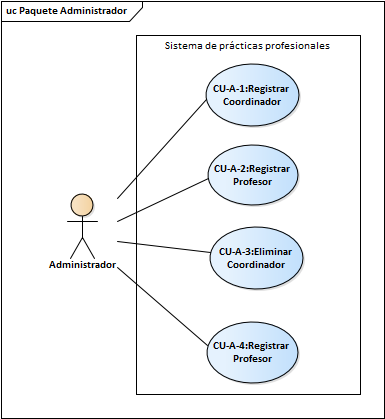
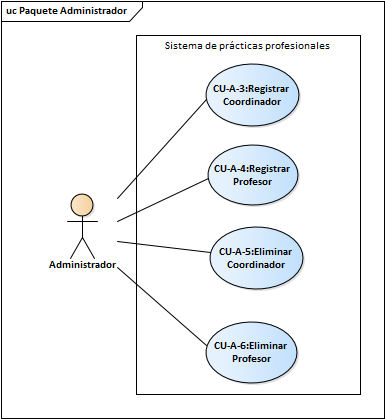
updated files

diff --git a/assets/ucdescriptions/coordinator/CU-C-7.md b/assets/ucdescriptions/coordinator/CU-C-7.md
@@ -4,7 +4,7 @@ title: "CU-C-7: Actualizar proyecto"
 permalink: /design-specification/uc-descriptions/coordinator/cu-c-7/ 
 hide_hero: true 
 ---
-**ID:** CU-C-7
+**ID:** CU-C-13
 
 **Nombre:** Actualizar Proyecto  
 

diff --git a/assets/ucdescriptions/professor/CU-PF-2.md b/assets/ucdescriptions/professor/CU-PF-2.md
@@ -5,7 +5,7 @@ permalink: /design-specification/uc-descriptions/professor/cu-pf-2/
 hide_hero: true 
 ---
 
-**ID:** CU-PF-2  
+**ID:** CU-PF-15  
 
 **Nombre:** Añadir Formato de Presentación
 

diff --git a/assets/ucdescriptions/practitioner/CU-PR-7.md b/assets/ucdescriptions/practitioner/CU-PR-7.md
@@ -5,7 +5,7 @@ permalink: /design-specification/uc-descriptions/practitioner/cu-pr-7/
 hide_hero: true 
 ---
 
-**ID:** CU-PR-7  
+**ID:** CU-PR-24  
 
 **Nombre:** Generar Autoevaluación  
 

diff --git a/assets/ucdescriptions/professor/CU-PF-3.md b/assets/ucdescriptions/professor/CU-PF-3.md
@@ -5,7 +5,7 @@ permalink: /design-specification/uc-descriptions/professor/cu-pf-3/
 hide_hero: true 
 ---
 
-**ID:** CU-PF-3  
+**ID:** CU-PF-16  
 
 **Nombre:** Evaluar Reporte Parcial  
 

diff --git a/assets/ucdescriptions/coordinator/CU-C-5.md b/assets/ucdescriptions/coordinator/CU-C-5.md
@@ -5,7 +5,7 @@ permalink: /design-specification/uc-descriptions/coordinator/cu-c-5/
 hide_hero: true
 ---
 
-**ID:** CU-C-5
+**ID:** CU-C-11
 
 **Nombre:** Generar Reporte de Indicadores
 

diff --git a/assets/ucdescriptions/professor/CU-PF-4.md b/assets/ucdescriptions/professor/CU-PF-4.md
@@ -5,7 +5,7 @@ permalink: /design-specification/uc-descriptions/professor/cu-pf-4/
 hide_hero: true 
 ---
 
-**ID:** CU-PF-4 
+**ID:** CU-PF-17 
 
 **Nombre:** Evaluar Reporte Mensual  
 

diff --git a/assets/ucdescriptions/practitioner/CU-PR-5.md b/assets/ucdescriptions/practitioner/CU-PR-5.md
@@ -5,7 +5,7 @@ permalink: /design-specification/uc-descriptions/practitioner/cu-pr-5/
 hide_hero: true
 ---
 
-**ID:** CU-PR-5
+**ID:** CU-PR-22
 
 **Nombre:** Generar Reporte Mensual
 

diff --git a/assets/ucdescriptions/professor/CU-PF-1.md b/assets/ucdescriptions/professor/CU-PF-1.md
@@ -5,7 +5,7 @@ permalink: /design-specification/uc-descriptions/professor/cu-pf-1/
 hide_hero: true 
 ---
 
-**ID:** CU-PF-1  
+**ID:** CU-PF-14  
 
 **Nombre:** Generar actividad  
 

diff --git a/assets/ucdescriptions/administrator/CU-A-1.md b/assets/ucdescriptions/administrator/CU-A-1.md
@@ -5,7 +5,7 @@ permalink: /design-specification/uc-descriptions/administrator/cu-a-1/
 hide_hero: true
 ---
 
-**ID:** CU-A-1
+**ID:** CU-A-3
 
 **Nombre:** Registrar Coordinador
 

diff --git a/assets/ucdescriptions/coordinator/CU-C-6.md b/assets/ucdescriptions/coordinator/CU-C-6.md
@@ -5,7 +5,7 @@ permalink: /design-specification/uc-descriptions/coordinator/cu-c-6/
 hide_hero: true
 ---
 
-**ID:** CU-C-6
+**ID:** CU-C-12
 
 **Nombre:** Registrar Practicante
 

diff --git a/assets/ucdescriptions/administrator/CU-A-3.md b/assets/ucdescriptions/administrator/CU-A-3.md
@@ -5,7 +5,7 @@ permalink: /design-specification/uc-descriptions/administrator/cu-a-3/
 hide_hero: true
 ---
 
-**ID:** CU-A-3
+**ID:** CU-A-5
 
 **Nombre:** Eliminar Cordinador
 

diff --git a/assets/ucdescriptions/coordinator/CU-C-4.md b/assets/ucdescriptions/coordinator/CU-C-4.md
@@ -5,7 +5,7 @@ permalink: /design-specification/uc-descriptions/coordinator/cu-c-4/
 hide_hero: true
 ---
 
-**ID:** CU-C-4
+**ID:** CU-C-10
 
 **Nombre:** Eliminar Practicante
 
